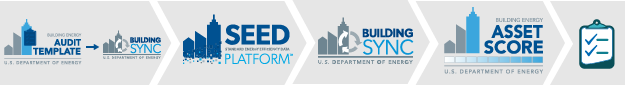
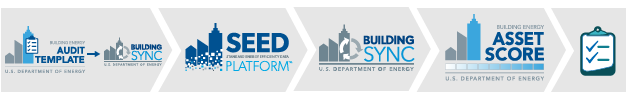
fix workflow images and dropdown menu on hover

diff --git a/app/views/includes/topnav.html b/app/views/includes/topnav.html
@@ -1,15 +1,10 @@
 <div ng-controller="ViewsCtrl" class="gray-background">
-	<div class="row no-gutters" >
-		<div class="hamburger">
-			<button class="navbar-toggler" type="button" data-toggle="collapse" data-target="#submenu" aria-controls="submenu" aria-expanded="false" aria-label="Toggle navigation">
-		      <span><i class="fa fa-bars dark-gray"></i></span>
-		    </button>
-		</div>
-	    <div class="col">
-	    	<div class="col-title pt-1"><a href="#!/collection-reporting" class="reg-nav col-line-1" ng-class="{ active: isActive('/collection-reporting')}">Data Collection & Reporting</a></div>
-	    </div>
-	    <div class="col">
-	    	<div class="col-title pt-1"><a href="#!/management-compliance" class="reg-nav col-line-2" ng-class="{ active: isActive('/management-compliance')}">Management & Compliance</a></div>
+	<div class="row no-gutters" ng-mouseenter="showMenu()">
+	  <div class="col">
+    	<div class="col-title pt-1"><a href="#!/collection-reporting" class="reg-nav col-line-1" ng-class="{ active: isActive('/collection-reporting')}">Data Collection & Reporting</a></div>
+	  </div>
+	  <div class="col">
+    	<div class="col-title pt-1"><a href="#!/management-compliance" class="reg-nav col-line-2" ng-class="{ active: isActive('/management-compliance')}">Management & Compliance</a></div>
 		</div>
 		<div class="col">
 			<div class="col-title pt-1"><a href="#!/analysis-evaluation" class="reg-nav col-line-3" ng-class="{ active: isActive('/analysis-evaluation')}">Analysis & Evaluation</a></div>
@@ -21,8 +16,7 @@
 			<div class="col-title pt-1"><a href="#!/developers" class="reg-nav col-line-5" ng-class="{ active: isActive('/developers')}">For Developers</a></div>
 		</div>
 	</div>
-	<div class="row no-gutters collapse" id="submenu">
-		<div class="hamburger"></div>
+	<div class="row no-gutters" id="submenu" ng-show="activeMenu" ng-mouseleave="hideMenu()">
 		<div class="col">
 			<nav class="nav flex-column">
 			  <a class="nav-link col-line-1-sm" href="https://www.energystar.gov/buildings/facility-owners-and-managers/existing-buildings/use-portfolio-manager" target="_blank">ENERGY STAR Portfolio Manager <span class="ml-1 align-center"><i class="fas fa-external-link-alt"></i></span></a>

diff --git a/app/views/views.js b/app/views/views.js
@@ -4,6 +4,16 @@ angular.module('myApp.views', ['ngRoute'])
 
 .controller('ViewsCtrl', ['$scope', '$location', '$route', function($scope, $location, $route) {
 
+	$scope.activeMenu = false;
+
+	$scope.showMenu = function() {
+		$scope.activeMenu = true;
+	};
+
+	$scope.hideMenu = function() {
+		$scope.activeMenu = false;
+	};
+
 	$scope.isActive = function (viewLocation) { 
 		$scope.activeVal = false;
 
